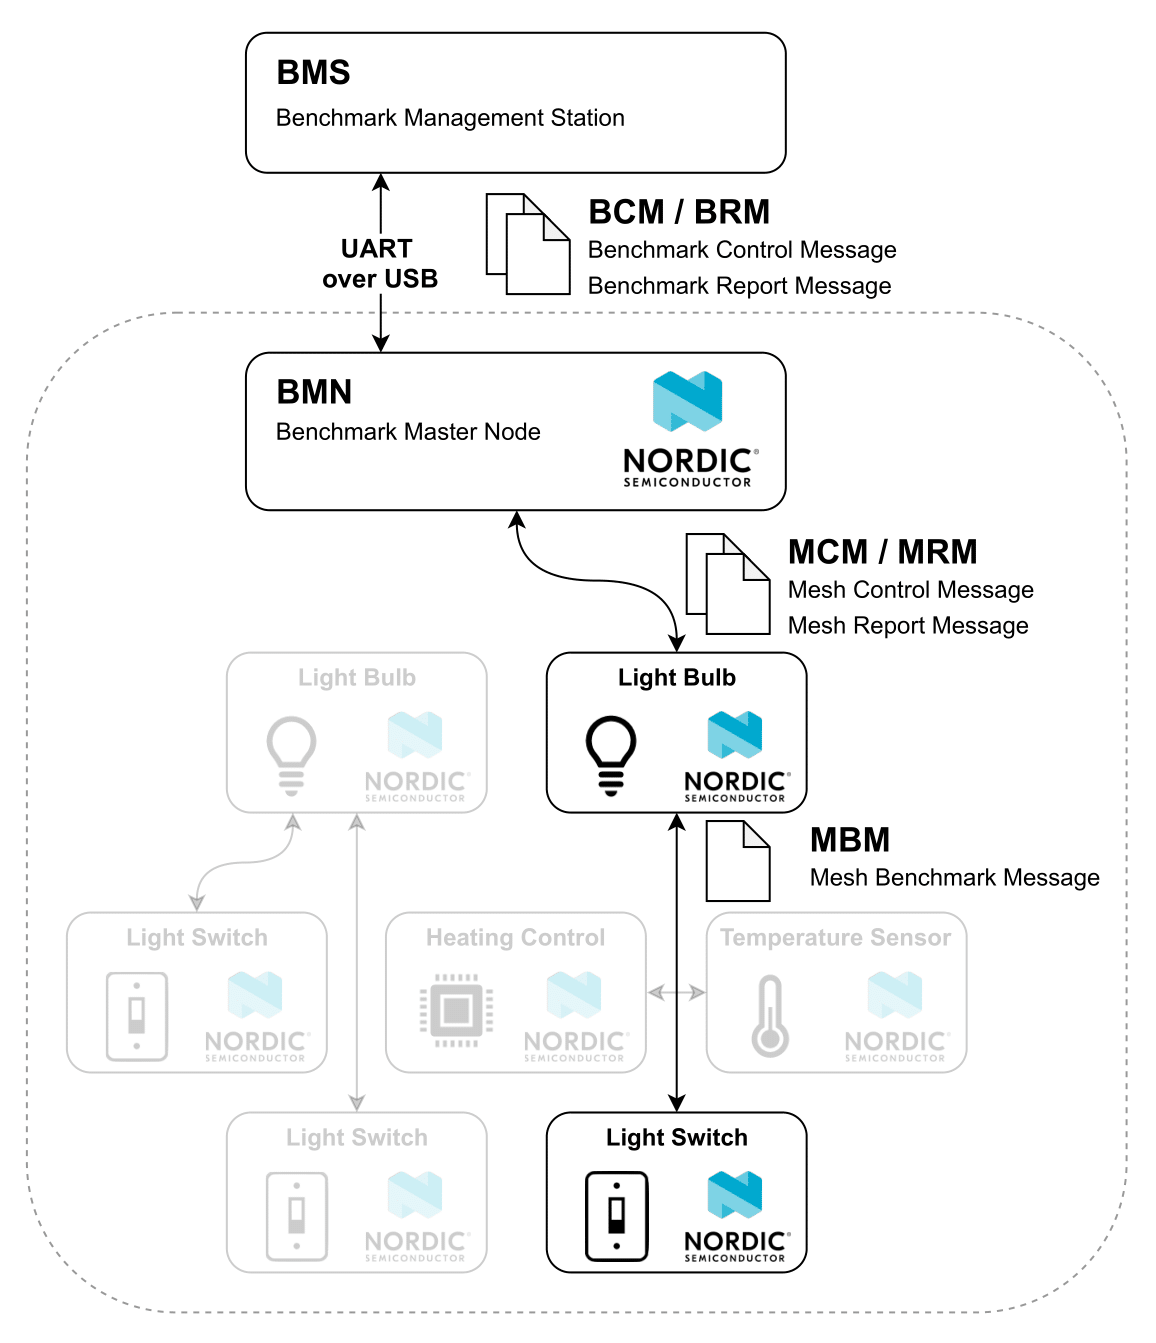
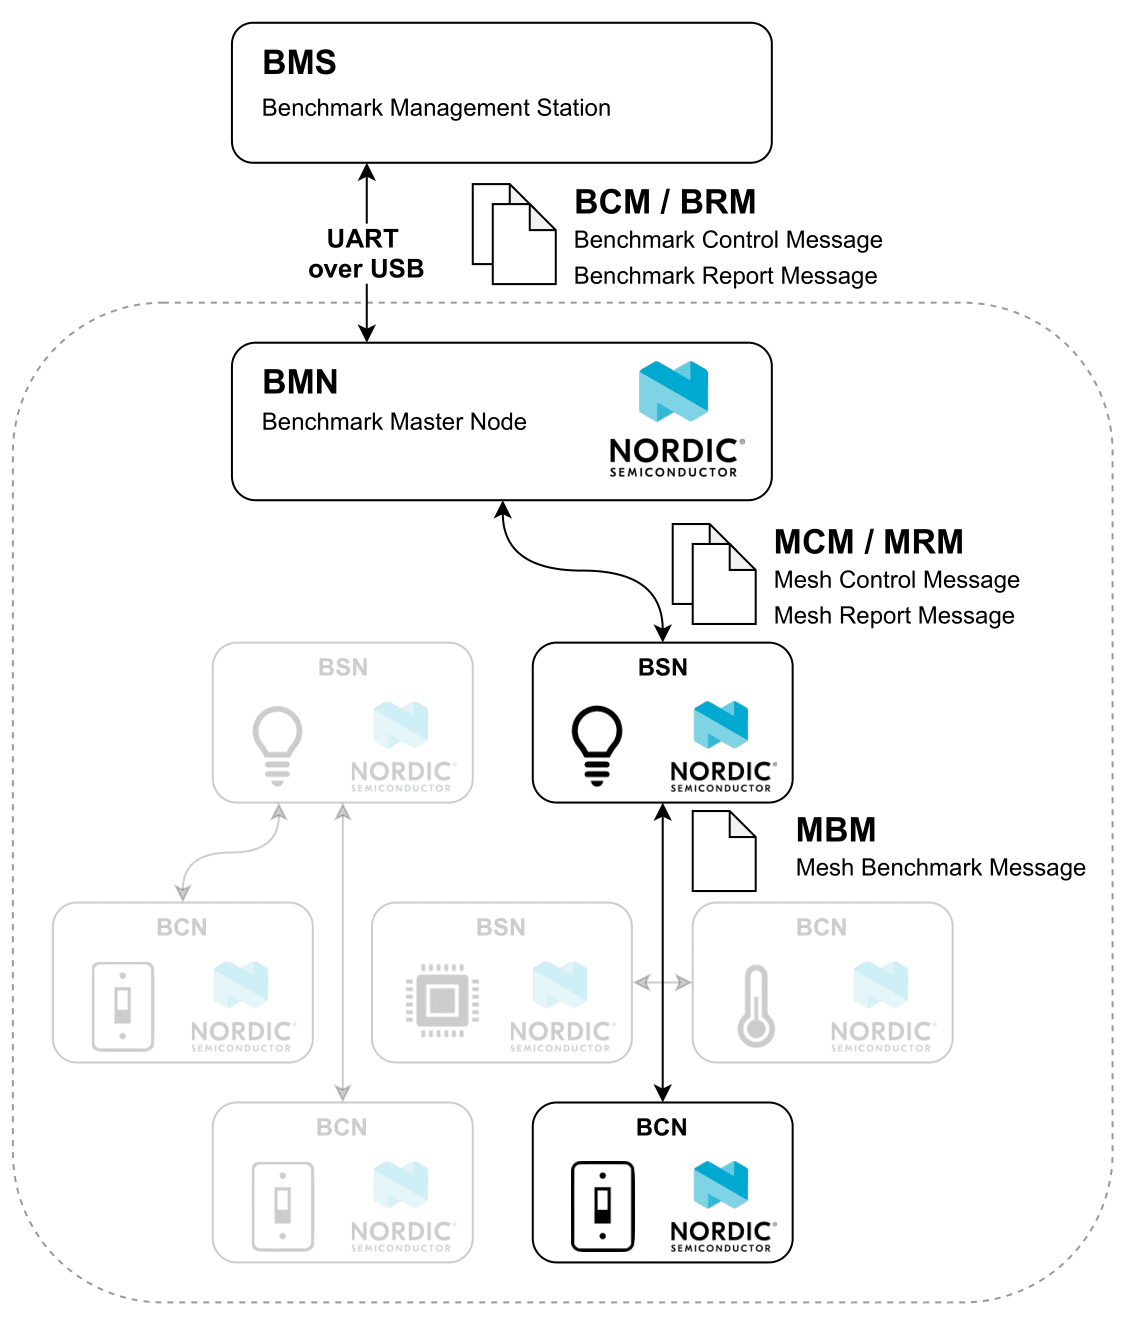
...

diff --git a/Fachbericht/sections/0_3_Testkonzept Mesh Netzwerke.tex b/Fachbericht/sections/0_3_Testkonzept Mesh Netzwerke.tex
@@ -43,9 +43,20 @@ Die BCM beschreibt die Nachrichten welche zur Steuerung eines Benchmarks von der
 Die BRM beschreiben Nachrichten welche den Status oder die Ergebnisse eines Benchmarks aus dem Mesh zurück an die BMS melden. Sie werden vom BMN initiiert und gelangen über eine die selbe USB-UART Schnittstelle wie die BCM zum BMS. Die BRM wird erst nach Abschluss des Benchmarks initiiert. Zuvor werden die Messdaten auf dem BMN zwischen gespeichert.
 
 
+\subsubsection{Nodes}\label{subsubsec:Nodes}
+Wie bereits angedeutet und in Abbildung \ref{fig:MeshTestKonzept} gezeigt, kann im Mesh Benchmark zwischen den folgenden 3 Node Typen unterschieden werden.
+
+\paragraph{Benchmark Master Node (BMN)}
+Der Benchmark Master Node bildet den zentralen Zugriffspunkt zum Mesh Netzwerk für den Benchmark. Über ihn werden Control und Report Messages versendet und empfangen. Je nach Mesh Protokoll fungiert er zugleich als Mesh Leader (Thread) respektive Coordinator (Zigbee).
+
+\paragraph{Benchmark Client Node (BCN)}
+Der Benchmark Client Node repräsentiert beispielsweise einen Schalter in einer Lichtsteuerung. Im Benchmark Kontext ist er jene Instanz die MBM versendet.
+
+\paragraph{Benchmark Server Node (BSN)}
+Das Pendant zum BCN stellt der BSN dar. Er steht beispielsweise für eine Lichtquelle. Im Benchmark Kontext empfängt er die MBM die vom BCN versendet werden.
+
 
 \subsection{Testszenarien}\label{subsec:TestszenarienMesh}
-\todo[inline]{Testumgebungen sowie die Beziehungen der Knoten innerhalb der Mesh Netze beschreiben.}
 
 Die Benchmarks der Mesh Protokolle sollen mit unterschiedlichen Bedingungen getestet werden wobei grundsätzlich eine reelle Anwendung nachgebaut werden soll. Zum einen gibt es unterschiedliche Beziehungen innerhalb des Mesh Netzwerks, zum anderen werden Testumgebungen unterschieden.
 
@@ -183,7 +194,7 @@ Die untenstehende Auflistung zeigt die auf den Mesh Nodes erfassten Messgrössen
 %\end{table}
 
 \paragraph{Message Timestamp}
-Zur Bestimmung der Latenzzeit eines Pakets das über das Mesh Netzwerk versendet wird, wird beim senden sowie beim empfangen ein Message Timestamp erfasst.
+Zur Bestimmung der Latenzzeit eines Pakets das über das Mesh Netzwerk versendet wird, wird beim Senden sowie beim Empfangen ein Message Timestamp erfasst.
 Die unter den Nodes synchronisierte Zeit gibt Aufschluss darüber wie lange das Paket unterwegs war. Die Berechnung der Latenzzeit wird jedoch erst bei der Analyse auf dem BMS durchgeführt.
 
 \paragraph{Number of Hops}
@@ -207,8 +218,6 @@ Der RSSI (Received Signal Strength Indication) wird auf dem Server Node auf MAC 
 Um die Mesh Protokolle einem möglichst fairen Vergleich zu unterziehen, werden pro Testumgebung eine Reihe an Messungen durchgeführt. Die Tabelle \ref{tab:ParameterBenchmarkMessreihe} zeigt 6 Messreihen mit den entsprechenden Parametern.
 
 Bei der Messung mit dem Index 6 handelt es sich um ein Benchmark welcher mit der P2P Testinfrastruktur gestört wird womit die Störimmunität des Mesh Stacks getestet werden soll. Dieser Test wird nur im Labormessaufbau durchgeführt da eine Störung im weit verteilten Netzwerk nur einzelne Nodes stören würde und somit nicht sehr aussagekräftig wäre.
-
-\todo[inline]{Wieso 32 und 50 Byte Unterschied erläutern}
 
 \begin{table}[h]
 \centering
@@ -255,12 +264,12 @@ Msg. Density & - & \begin{tabular}[t]{@{}l@{}}Dichte der Nachrichten. Verhältni
 \end{table}
 
 \subsection{Allgemeine Benchmark Parameter}\label{subsec:AllgemeineBenchmarkParameter}
-Die oben erwähnten Messreihen haben nebst den variablen Parametern einige allgemein gültige Benchmark Paramter die in der Tabelle \ref{tab:AllgemeineBenchmarkParameter} aufgeführt sind.
+Die oben erwähnten Messreihen haben nebst den variablen Parametern einige allgemeingültige Benchmark Parameter die in der Tabelle \ref{tab:AllgemeineBenchmarkParameter} aufgeführt sind.
 Diese sind für sämtliche Messungen innerhalb des jeweiligen Mesh Protokolls gültig.
 In den Punkten \textit{Benchmark Duration, Message Ack, Mesh Node Cnt.}, sowie \textit{Payload Size Small} unterscheiden sich die Benchmarks der drei Protokolle nicht.
 Die Parameter \textit{Group addressing mode} sowie \textit{Payload Size Large} hingegen unterscheiden sich aufgrund der Eigenschaften der Protokolle leicht.
 Beim \textit{Group addressing mode} wird zwischen Broadcast bei BT Mesh, Multicast bei Thread und Directional bei Zigbee unterschieden. Gemäss Definition im Pflichtenheft soll jeweils eine Gruppenadressierung stattfinden. Zigbee bietet zwar eine solche Möglichkeit eines Multicasts jedoch wird dieser schliesslich als Broadcast umgesetzt was eine deutliche Limitierung der Performance verursacht.
-Aufgrund von dieser Erfahrung und der Erkenntnis dass marktübliche Lichtsteuerungen nur sehr selten ein solches Multicast Prinzip verwenden, wird die Adressierung im Benchmark gerichtet vorgenommen.
+Aufgrund von dieser Erfahrung und der Erkenntnis dass marktübliche Lichtsteuerungen \footnote{Analyse mittels Sniffer Trace einer IKEA Tradfri Lichtsteuerung.} nur sehr selten ein solches Multicast Prinzip verwenden, wird die Adressierung im Benchmark gerichtet vorgenommen.
 Das bedeutet die Nachrichten werden nicht an eine Gruppenadresse sondern direkt an die jeweilige Node Adresse gesendet. Bei mehreren Servern innerhalb einer Gruppe werden also auch mehrere Nachrichten versendet.
 
 Die \textit{Payload Size Large} soll eine vergleichsweise grosse Payload simulieren die über das Mesh übertragen wird.
@@ -291,7 +300,12 @@ Payload Size Large (Byte) & 32 & 50 & 50 \\
 
 
 \subsection{Messdatenerfassung und Auswertung}\label{subsec:MessdatenerfassungundAuswertung}
-\todo[inline]{Beschreibung der Hard und Software für die Datenerfassung und die Auswertung.}
+
+Für die Messdatenerfassung und Auswertung wird keine dedizierte Hardware verwendet. Die eigentlichen Messwerte die in Abschnitt \ref{subsec:MessgrössenMesh} erläutert sind, werden auf den Mesh Nodes direkt erfasst und erst im RAM und später im Flash des Microcontrollers zwischen gespeichert. Von dort werden sie mittels BRM (Benchmark Report Message) an den BMN übertragen.
+Auf den Mesh Nodes inkl. BMN findet noch keine Auswertung der Daten statt.
+Diese wird an das BMS ausgelagert.
+Das BMS empfängt die BRM via CLI (Command Line Interface) und speichert die Messwerte in einem Excel CSV File ab. Dazu kommt ein Python Skript zum Einsatz (siehe \ref{subsubsec:Benchmark}).
+Mittels einem weiteren Python Skript und manueller Bearbeitung in Excel können die so erfassten Daten ausgewertet werden.
 
 \subsection{Messerwartung}\label{subsec:Messerwartung}
 \todo[inline]{Welche Resultate werden erwartet. Welcher der drei Stacks ist vermeintlich der Beste?}

diff --git a/Fachbericht/sections/0_4_Hardware.tex b/Fachbericht/sections/0_4_Hardware.tex
@@ -33,8 +33,12 @@ Wireless protocols & IEEE 802.15.4 (Thread, Zigbee), Bluetooth 5  \\
 \subsection{Hardware Development Kits}\label{subsec:HardwareDevelopmentKits}
 \todo[inline]{Kurze Beschreibung der nRF52840 DK's. Dongle und DK. Was wird wo eingesetzt?}
 
-Der Hersteller Nordic Semiconductor bietet gleich zwei Entwicklungsboards für den SoC an. Einerseits das umfangreiche nRF52840-DK (pca10056) \ref{fig:nrf52840-DK} welches zusammen mit dem Software Development Kit von Nordic Semiconductor eine vollumfängliche Entwicklungsumgebung bietet. Auf dem Board ist nebst diverser Peripherie auch ein Segger J-Link Debugger integriert. Dieser erleichtert das flashen und debuggen ungemein. Im Benchmark Betrieb fungiert ein nRF52840-DK als Benchmark Master Node \ref{subsubsec:Nodes} wobei die USB-UART Schnittstelle als Interface zur Benchmark Management Station verwendet wird.
-Als einfachere Alternative zum voll umfänglichen Development Kit werden als Benchmark Slave Nodes \ref{subsubsec:Nodes} die einfacheren und günstigeren nRF52840-Dongle (pca10059) \ref{fig:nrf52840-Dongle} verwendet. Offensichtlich als USB-Dongle entworfen können die Dongles flexibel eingesetzt werden. Die fehlende Peripherie macht die Hardware jedoch unpassend für die Entwicklung neuer Firmware.
+Der Hersteller Nordic Semiconductor bietet gleich zwei Entwicklungsboards für den SoC an. Einerseits das umfangreiche nRF52840-DK (pca10056) \ref{fig:nrf52840-DK} welches zusammen mit dem Software Development Kit von Nordic Semiconductor eine vollumfängliche Entwicklungsumgebung bietet.
+Auf dem Board ist nebst diverser Peripherie auch ein Segger J-Link Debugger integriert.
+Dieser erleichtert das flashen und debuggen ungemein.
+Im Benchmark Betrieb fungiert ein nRF52840-DK als Benchmark Master Node \ref{subsubsec:Nodes} wobei die USB-UART Schnittstelle als Interface zur Benchmark Management Station verwendet wird.
+Als einfachere Alternative zum voll umfänglichen Development Kit werden als Benchmark Slave Nodes \ref{subsubsec:Nodes} die einfacheren und günstigeren nRF52840-Dongle (pca10059) \ref{fig:nrf52840-Dongle} verwendet.
+Offensichtlich als USB-Dongle entworfen können die Dongles flexibel eingesetzt werden. Die fehlende Peripherie macht die Hardware jedoch unpassend für die Entwicklung neuer Firmware.
 Beide Typen von Entwicklungsboards besitzen eine integrierte PCB Antenne wenn auch in unterschiedlichen Ausführungen.
 Im Abschnitt \ref{subsec:AntenneundStrahlungscharakteristik} wird näher auf die Ausführung der Antennen und deren Strahlungscharakteristik eingegangen.
 
@@ -110,7 +114,7 @@ Die gemessenen Abstrahleigenschaften der beiden Antennen bestätigen schliesslic
 
 \begin{figure}[!htbp]
 \centering
-\begin{minipage}[b][]{0.49\linewidth}
+\begin{minipage}[b]{0.49\linewidth}
 	\centering
 	\includegraphics[width=\textwidth]{PCA10056_Peak.png}
 	\caption{Abtrahlung in Z-Richtung PCA10056}

diff --git a/Fachbericht/sections/3_1_Uebersicht.tex b/Fachbericht/sections/3_1_Uebersicht.tex
@@ -8,8 +8,8 @@ Cyrill Horath
 \todo[inline]{Kurze Einleitung ins Thema Zigbee. Dieser Teil ist komplett losgelöst von den anderen Teilen. Es soll klar ersichtlich sein dass dieser Teil durch Cyrill Horath erstellt wurde.}
 
 Zigbee ist ein auf dem IEEE 802.15.4 Standard aufbauendes drahtloses Low Power Mesh Netzwerk. Es nutzt das vom IEEE 802.15.4 Standard definierte ISM-Funkfrequenzband 2.4GHz plus weitere Sub-GHz Bänder je nach Region.
-Die im Jahre 2002 gegründete Zigbee Allianz spezifiziert den Protokoll Standard ist gibt seit da an laufend Neuerungen und Updates heraus.
-Im Zuge der Verbreitung von Home Automation Technologien erhielt auch Zigbee immer mehr Aufmerksamkeit und wuchs bis heute zu einem der am weitesten verbreiteten Protokolle für sogenannte WSN (Wireless Sensor Networks) und vorallem Lichtsteuerungssystem heran. Phillips Hue und Ikea Tradfri sind nur zwei Beispiele in welchen Zigbee verbreitet zum Einsatz kommt.
+Die im Jahre 2002 gegründete Zigbee Allianz spezifiziert den Protokoll Standard und gibt seit da an laufend Neuerungen und Updates heraus.
+Im Zuge der Verbreitung von Technologien in der Heim Automatisierung erhielt auch Zigbee immer mehr Aufmerksamkeit und wuchs bis heute zu einem der am weitesten verbreiteten Protokolle für sogenannte WSN (Wireless Sensor Networks) und vorallem Lichtsteuerungssystem heran. Phillips Hue und Ikea Tradfri sind nur zwei Beispiele in welchen Zigbee verbreitet zum Einsatz kommt.
 
 
 

diff --git a/Fachbericht/sections/3_3_Firmware Benchmark.tex b/Fachbericht/sections/3_3_Firmware Benchmark.tex
@@ -3,9 +3,19 @@
 \todo[inline]{Komplette Beschreibung der Firmware unterteilt in die 3 Nodetypen. Besonderheiten herausstreichen und allfällige Schwierigkeiten aufzeigen.}
 
 
+
 \subsection{Benchmark Message}\label{subsec:BenchmarkMessage}
 
 \subsection{Zigbee Stack Implementation}\label{subsec:ZigbeeStackImplementation}
+
+\subsubsection{Funkkanal Wahl im 2.4GHz ISM Band}\label{subsubsec:FunkkanalWahlim2.4GHzISMBand}
+
+\begin{figure}[h]
+	\centering
+	\includegraphics[width=\textwidth]{Funkkanaele_Konkurrenz_IEEE.png}
+	\caption{Konkurrenz IEEE und WLAN Funkkanäle \cite{markus_krause_rainer_konrad_drahtlose_2014}}
+	\label{fig:KonkurrenzIEEEundWLANFunkkanäle}
+\end{figure}
 
 \subsubsection{ZCL Level Cluster}\label{subsubsec:ZCLLevelCluster}
 
